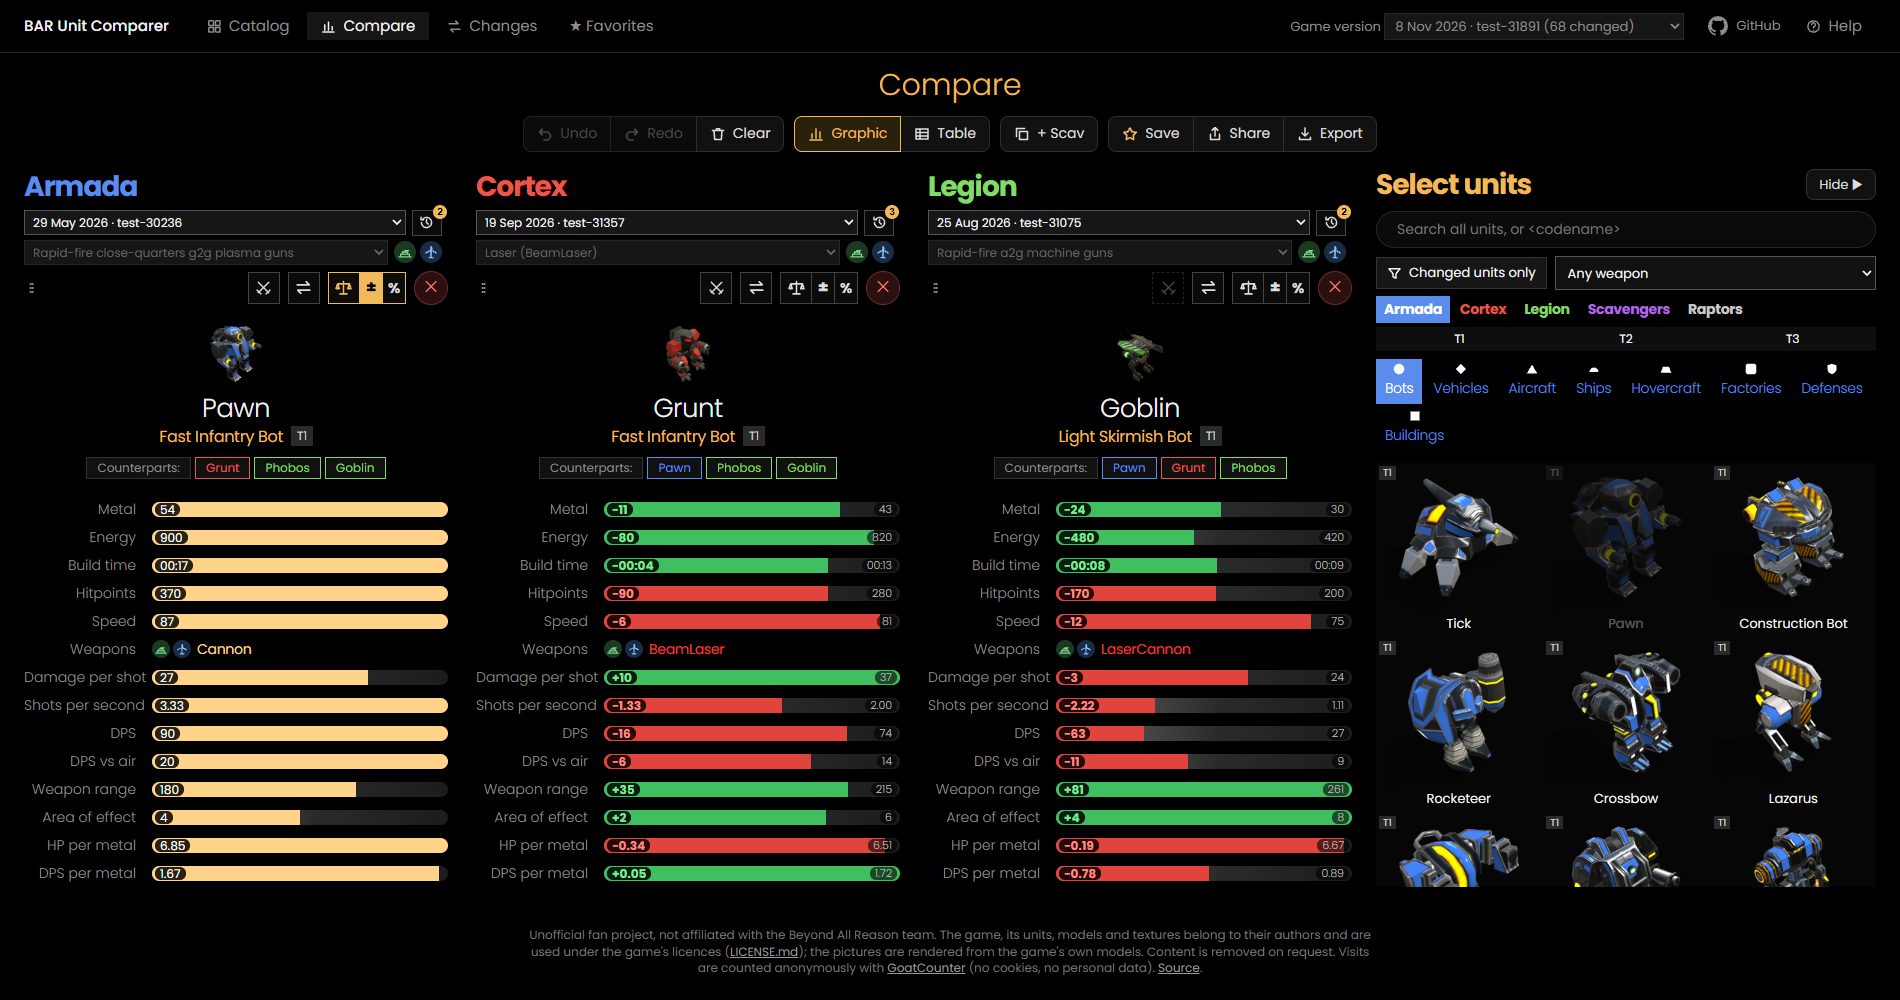
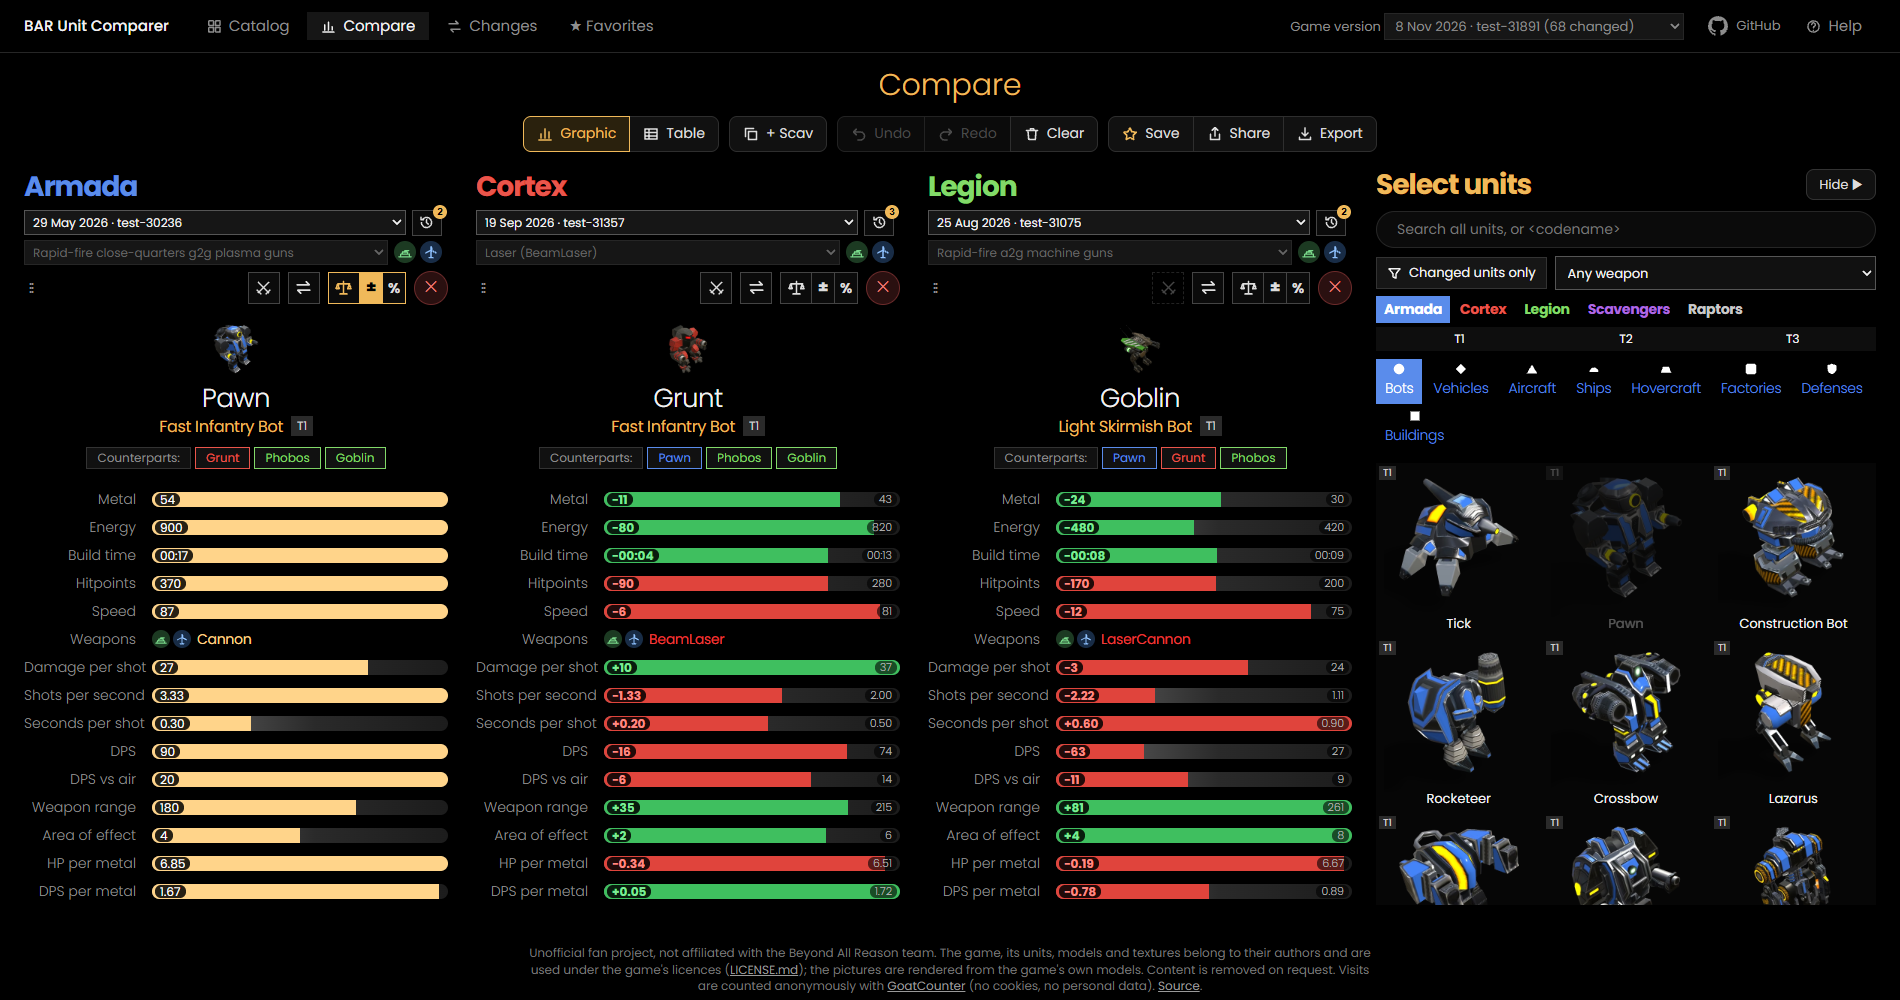
Toolbar from the left: Graphic / Table, + Scav, Undo / Redo / Clear, Save / Share / Export; README shorter for players, new screenshots
Claude-Session: https://claude.ai/code/session_01QeCYKoSgqsAqdpEWxxymXc

diff --git a/website/app.js b/website/app.js
@@ -718,7 +718,7 @@ function renderCompare() {
   renderOverlay();
 }
 
-// the buttons above the columns, in groups: history (Undo, Clear, Redo), the view (graphic or table), + Scav, keep (Favorite, Share, Export).
+// the buttons above the columns, in groups from the left: the view (graphic or table), + Scav, history (Undo, Redo, Clear), keep (Favorite, Share, Export).
 // Every button has an icon; on a phone only the icons are shown (one line). Changed units only is in the unit selection: it changes only that list
 function toolbarHtml() {
   const fav = currentFavorite() >= 0, any = state.columns.length ? '' : 'disabled';
@@ -730,11 +730,11 @@ function toolbarHtml() {
     ? `<button class="btn on" title="${label} view (shown)" aria-pressed="true">${icon}<span class="lb">${label}</span></button>`
     : `<button class="btn" data-a="view-table" title="${tip}" aria-pressed="false">${icon}<span class="lb">${label}</span></button>`;
   return `<div class="cmp-clear">
+    ${group(view(false, ICONS.graphic, 'Graphic', 'Graphic view: pictures and bars'), view(true, ICONS.table, 'Table', 'Compact table: one row per value, one column per unit'))}
+    ${group(btn('scav', ICONS.scav, '+ Scav', 'Scavengers: show the Scavenger copy of every unit right next to it (stronger: about 10 % more cost, 25 % more hitpoints). Press again to take them out.', { on: state.scav, cls: 'tg' }))}
     ${(([undo, redo]) => group(undo, redo, btn('clear-all', ICONS.trash, 'Clear', 'Start again: remove all units and the Undo and Redo steps (asks first)', { off: !!any, cls: 'danger' })))([['undo', undoStack, ICONS.undo, 'Undo', 'Undo the last change of the columns (Ctrl+Z)'], ['redo', redoStack, ICONS.redo, 'Redo', 'Redo (Ctrl+Y)']].map(([a, stack, icon, label, tip]) =>
       // a badge with the number of steps that can be taken back (or repeated); none: no badge
       btn(a, icon, label, `${tip}${stack.length ? ` - ${stack.length} step${stack.length === 1 ? '' : 's'}` : ''}`, { off: !stack.length }).replace('<button class="btn', `<button ${stack.length ? `data-n="${stack.length}" ` : ''}class="btn${stack.length ? ' n-steps' : ''}`)))}
-    ${group(view(false, ICONS.graphic, 'Graphic', 'Graphic view: pictures and bars'), view(true, ICONS.table, 'Table', 'Compact table: one row per value, one column per unit'))}
-    ${group(btn('scav', ICONS.scav, '+ Scav', 'Scavengers: show the Scavenger copy of every unit right next to it (stronger: about 10 % more cost, 25 % more hitpoints). Press again to take them out.', { on: state.scav, cls: 'tg' }))}
     ${group(btn('fav-save', ICONS.star, fav ? 'Favorite' : 'Save', fav ? 'This selection is a favorite: press to remove it' : 'Save this selection of units as a favorite (list: Favorites at the top)', { on: fav, off: !!any, cls: 'fav-star tg' }),
       btn('share', ICONS.share, 'Share', 'Share this comparison: copies its link (on a phone: the share menu)', { off: !!any, cls: 'share' }),
       btn('export', ICONS.export, 'Export', 'Export the units shown with their values: a CSV or Excel file', { off: !!any }))}

diff --git a/README.md b/README.md
@@ -28,27 +28,25 @@ What a patch changed: every unit whose values differ between two game versions, 
 
 ## The buttons of the compare
 
+| At the top, from the left | |
+|---|---|
+| **Graphic / Table** | bars with pictures, or a compact table |
+| **+ Scav** | the Scavenger copy next to every unit |
+| **Undo / Redo / Clear** | take back or repeat a change (Ctrl+Z / Ctrl+Y); Clear starts again |
+| **Save / Share** | keep the selection as a favorite, or copy its link |
+| **Export** | download the values as **CSV** or **Excel**: one row per value, one column per unit |
+
 | Above each unit | |
 |---|---|
-| **Ref** (a block: balance, **±**, **%**) | **±**: this unit is the reference, the others show the difference to it (**+** more, **−** less), green if that is better, red if it is worse (more metal: **+** in red), equal values grey. **%**: the same in percent of the value of the reference (43 metal against 54: **−20%**). The other half switches the mode, the lit one pressed again switches the reference off; the balance takes the mode chosen last (at first ±) |
-| **Versions** (clock, beside the list of versions) | every other game version of this unit next to it, the changed values marked; the list (white: several versions) shows the unit as it was in one of them |
-| **Weapon list** (below the version) | one weapon: its name, grey; several weapons: a white list, **All weapons** (the default) or one of them, e.g. the laser of a commander against the laser of another one; D-gun, nukes, EMP and the high trajectory of a cannon that can switch between two are left out of All weapons but can be chosen. Two round signs right of it say what the weapon hits: ground and water (green) and aircraft (blue), dim if not |
-| **Counterparts** (arrows) | the units of the other factions that do the same job |
-| **Counters** (swords) | the units that are good against this unit |
+| **Ref** (balance, **±**, **%**) | this unit is the reference: the others show the difference to it, green if better, red if worse; **±** as it is (+86), **%** in percent (−20%) |
+| **Versions** (clock) | the unit's other game versions next to it, the changes marked |
+| **Weapon list** | all weapons together or one of them; the signs beside it say what it hits (ground, air) |
+| **Counterparts** (arrows) | the same job in the other factions |
+| **Counters** (swords) | the units that are good against it |
 
-A lit icon pressed again takes back what it added. Drag a column by its grip to move it.
+A lit button pressed again takes back what it did. Drag a column by its grip to move it; click the name of a value to sort by it. Besides cost, hitpoints, speed and range there are **damage per shot**, **shots per second**, **seconds per shot**, **DPS**, **DPS vs air**, **area of effect**, **HP per metal** and **DPS per metal**. The **game version** at the top shows an older patch.
 
-| At the top | |
-|---|---|
-| **Undo / Redo / Clear** | take back or repeat a change (also Ctrl+Z / Ctrl+Y; the badge says how many steps there are); Clear starts again (it asks first) |
-| **Graphic / Table** | bars with pictures, or a compact table (on a phone the name of a value in a line above its values, so the units get the whole width) |
-| **+ Scav** | the Scavenger copy of every unit next to it |
-| **Save / Share** | keep the selection as a favorite, or share its link (the link holds the units with their versions and weapons, the view, + Scav and the Ref with ± or %). **Favorites** in the header lists them; the middle mouse button opens one in a new tab |
-| **Export** | download the units shown with their values as **CSV** (in the language of the browser: German with 16,5 and semicolons) or **Excel** (.xlsx): one row per value, one column per unit, the name, faction, tier, game version and weapon at the top, numbers as numbers (build time in seconds); with a Ref also the differences to it (± or %) in a block below |
-
-Click the name of a value (Metal, Hitpoints, ...) to sort the columns by it. Besides cost, hitpoints, speed and range the page shows **damage per shot**, **shots per second** (and the other way round: **seconds per shot**), **DPS**, **DPS vs air** and the **area of effect**, and **HP per metal** and **DPS per metal**. The **game version** at the top shows the units as they were in an older patch; it always starts at the newest, and an older one is gold so that it is seen.
-
-**On a phone:** two units fit on the screen, swipe for more; the **Ref** block and a menu (three dots) with all tools in words; **+ Add units** opens the selection.
+**On a phone:** two units on the screen, swipe for more; the menu (three dots) of a unit has all its tools; **+ Add units** opens the selection.
 
 <a href="https://ralf1108.github.io/BARUnitComparer/"><img src="docs/phone.png" width="260" alt="The compare page on a phone: two units, Pawn as the reference"></a>
 

diff --git a/docs/website.md b/docs/website.md
@@ -91,7 +91,7 @@ As on the pictures: Armada blue (90, 140, 235), Cortex red (235, 85, 75), Legion
 
 **Layout:** the toolbar (`toolbarHtml`), the columns, at the right the unit selection (it can be folded away; remembered). Columns and selection fill the window: the pictures shrink (60 to 300 px) so that the page needs no scrollbar. Without units the page says what to do and offers examples (`emptyCompareHtml`).
 
-**The toolbar,** groups of buttons with icons (`ICONS`), a lit button is on: **Undo** / **Redo** / **Clear** (a gold badge with the number of steps; no step: no badge; **Clear** asks first, `askHtml`, then removes all units and the Undo and Redo steps) · **Graphic / Table** · **+ Scav** · **Save** (star, filled for a favorite) / **Share** / **Export**. A button that cannot be used now is grey. On a phone only the icons, in one line.
+**The toolbar,** groups of buttons with icons (`ICONS`), a lit button is on, from the left: **Graphic / Table** · **+ Scav** · **Undo** / **Redo** / **Clear** (a gold badge with the number of steps; no step: no badge; **Clear** asks first, `askHtml`, then removes all units and the Undo and Redo steps) · **Save** (star, filled for a favorite) / **Share** / **Export**. A button that cannot be used now is grey. On a phone only the icons, in one line.
 
 **Graphic view:** a column is a unit: faction, the list of its versions, its tools, picture, name, description, tech level, counterparts, then the values as bars, scaled to the largest value of the row; a row is shown only if a unit has the value. Two units look like more: no mirrored pair. Each label has a tooltip (`tip` in `STATS`). Columns are 360 px wide at least, a little narrower (down to 280 px) when that saves a few pixels of scrolling (`fitColumns`); arrows at the edges show hidden columns and scroll to the next one.
 
